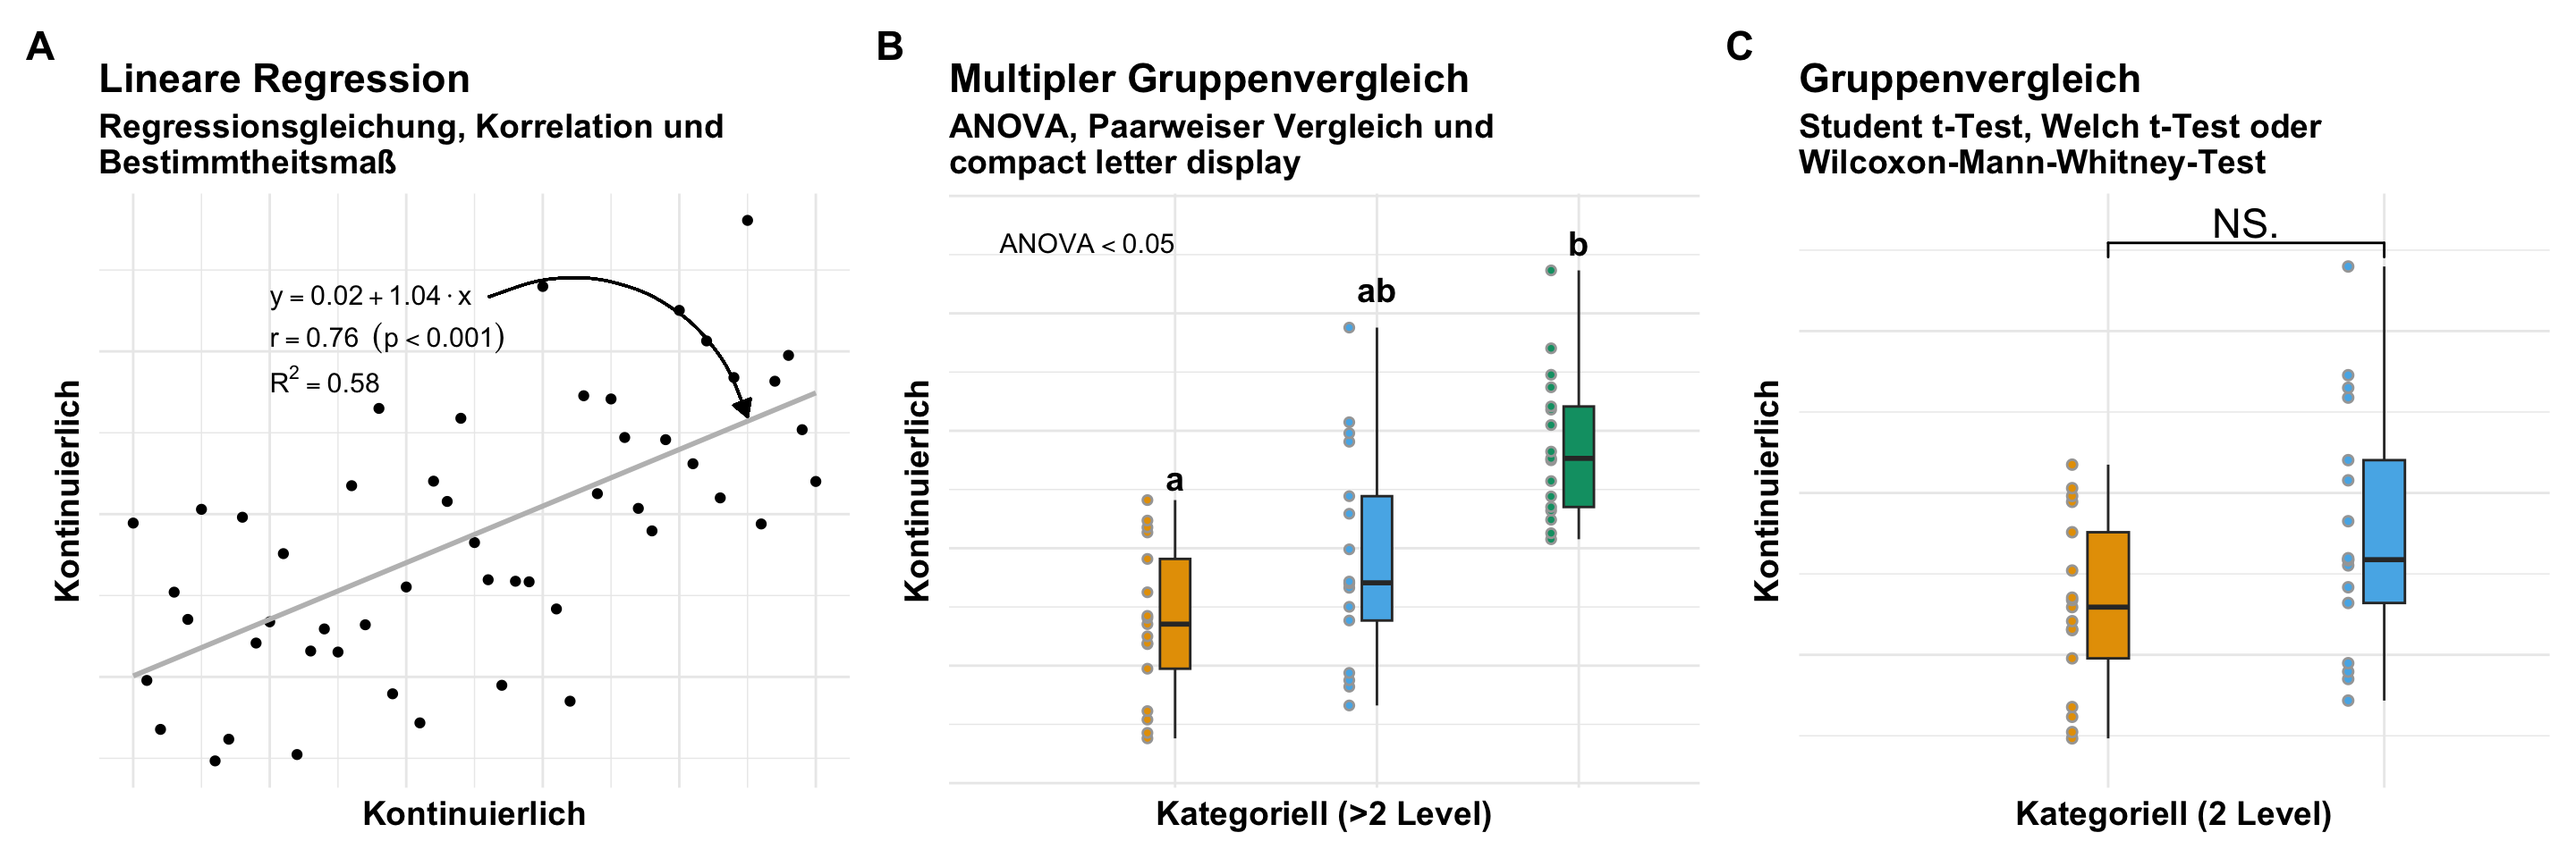
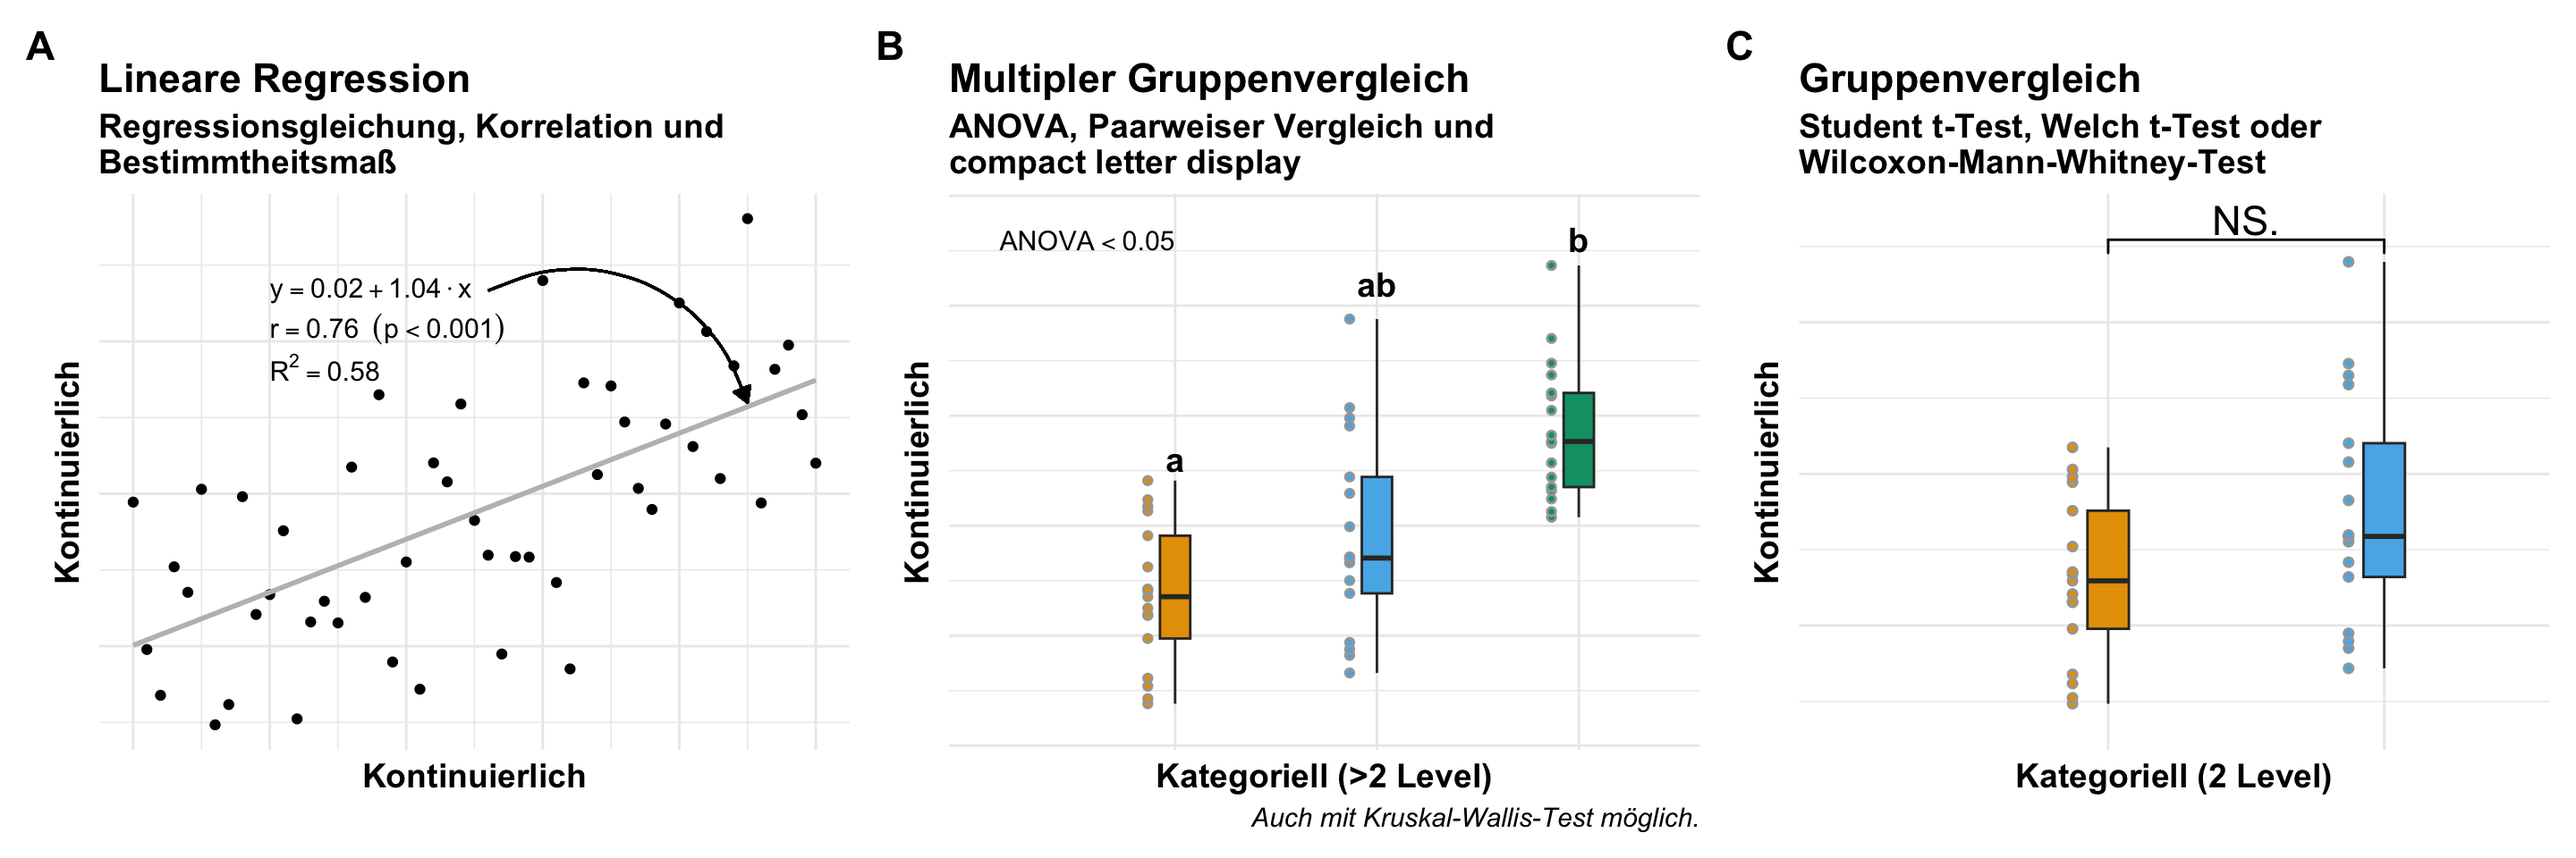
added

diff --git a/docs/stat-modeling-preface.html b/docs/stat-modeling-preface.html
@@ -779,7 +779,7 @@ window.Quarto = {
 </header>
 
 
-<p><em>Letzte Änderung am 01. April 2024 um 09:27:43</em></p>
+<p><em>Letzte Änderung am 01. April 2024 um 10:35:08</em></p>
 <blockquote class="blockquote">
 <p><em>“Sei bereit, sei bereit, sonst kommst du nicht sehr weit; Dann tut’s dir später leid, drum sei bereit; sei bereit sei bereit, sei clever und gescheit; so bist du gegen jeden Test gefeit” — Jan Delay Ziegen Song (sei Bereit)</em></p>
 </blockquote>
@@ -835,6 +835,22 @@ Wo sind die Barplots?
 </div>
 <div class="callout-body-container callout-body">
 <p>Text</p>
+</div>
+</div>
+<div class="callout callout-style-default callout-note callout-titled">
+<div class="callout-header d-flex align-content-center">
+<div class="callout-icon-container">
+<i class="callout-icon"></i>
+</div>
+<div class="callout-title-container flex-fill">
+Wir mitteln uns die Welt, wie sie mir gefällt…
+</div>
+</div>
+<div class="callout-body-container callout-body">
+<blockquote class="blockquote">
+<p>“2 x 3 macht 4; Widdewiddewitt; und Drei macht Neune!; Wir machen uns die Welt; Widdewidde wie sie uns gefällt…” — Hey Pippi Langstrumpf</p>
+</blockquote>
+<p>Test</p>
 </div>
 </div>
 </section>
@@ -1552,7 +1568,7 @@ window.document.addEventListener("DOMContentLoaded", function (event) {
 </div>
   </div>
 </footer>
-<script>var lightboxQuarto = GLightbox({"openEffect":"zoom","closeEffect":"zoom","selector":".lightbox","loop":false,"descPosition":"bottom"});
+<script>var lightboxQuarto = GLightbox({"selector":".lightbox","closeEffect":"zoom","descPosition":"bottom","loop":false,"openEffect":"zoom"});
 window.onload = () => {
   lightboxQuarto.on('slide_before_load', (data) => {
     const { slideIndex, slideNode, slideConfig, player, trigger } = data;
